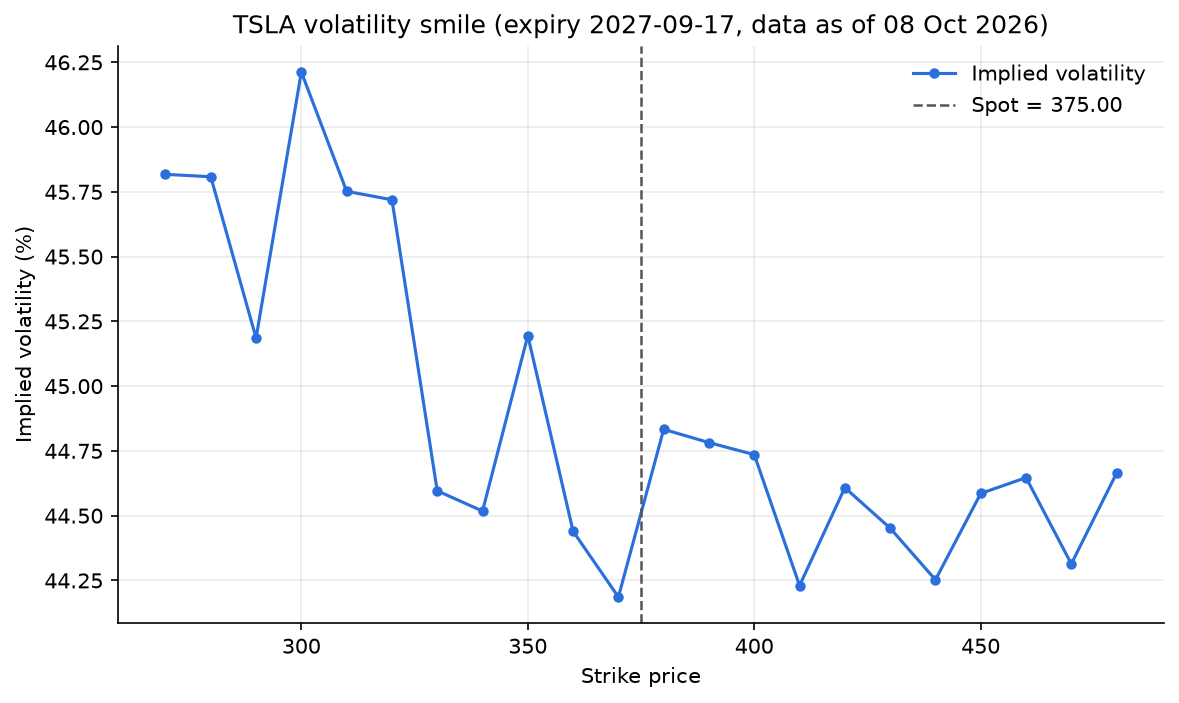
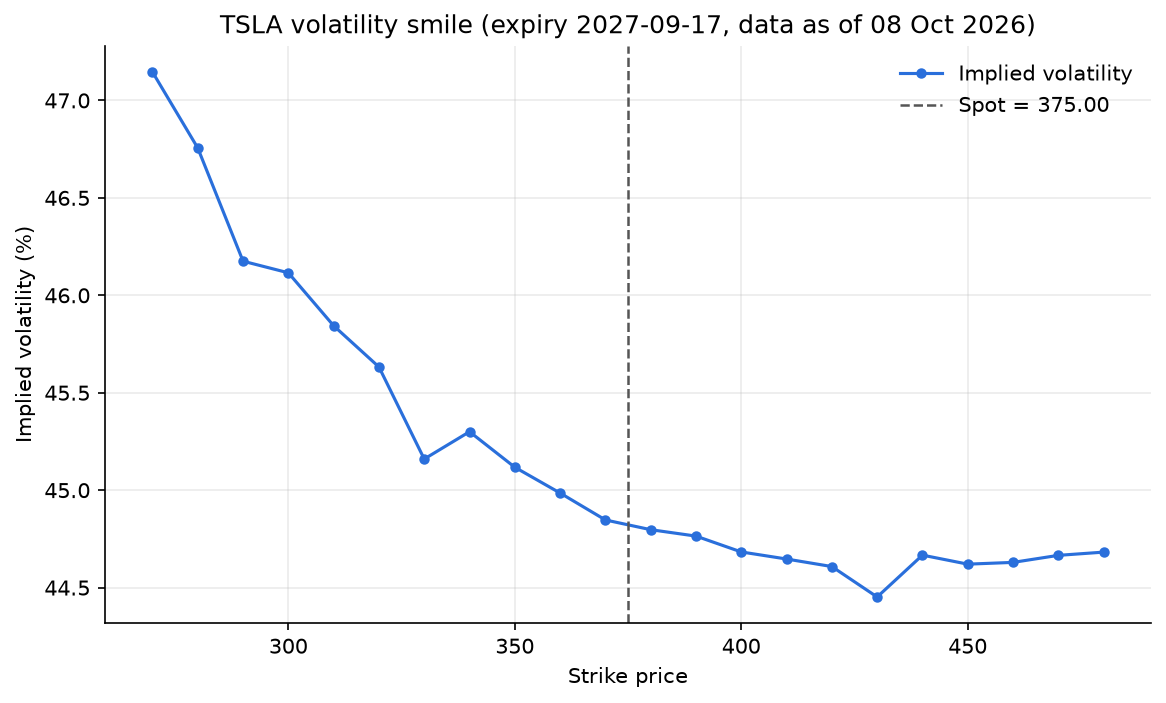
Print relative plot paths; refresh notebook

diff --git a/src/volatility_smile.py b/src/volatility_smile.py
@@ -72,7 +72,7 @@ def plot_volatility_smile(iv_table, S, ticker, expiry):
 
     path = os.path.join(get_plots_dir(), f"volatility_smile_{ticker}.png")
     fig.savefig(path, dpi=150, bbox_inches="tight")
-    print(f"Saved {path}")
+    print(f"Saved plots/{os.path.basename(path)}")
     return path
 
 
